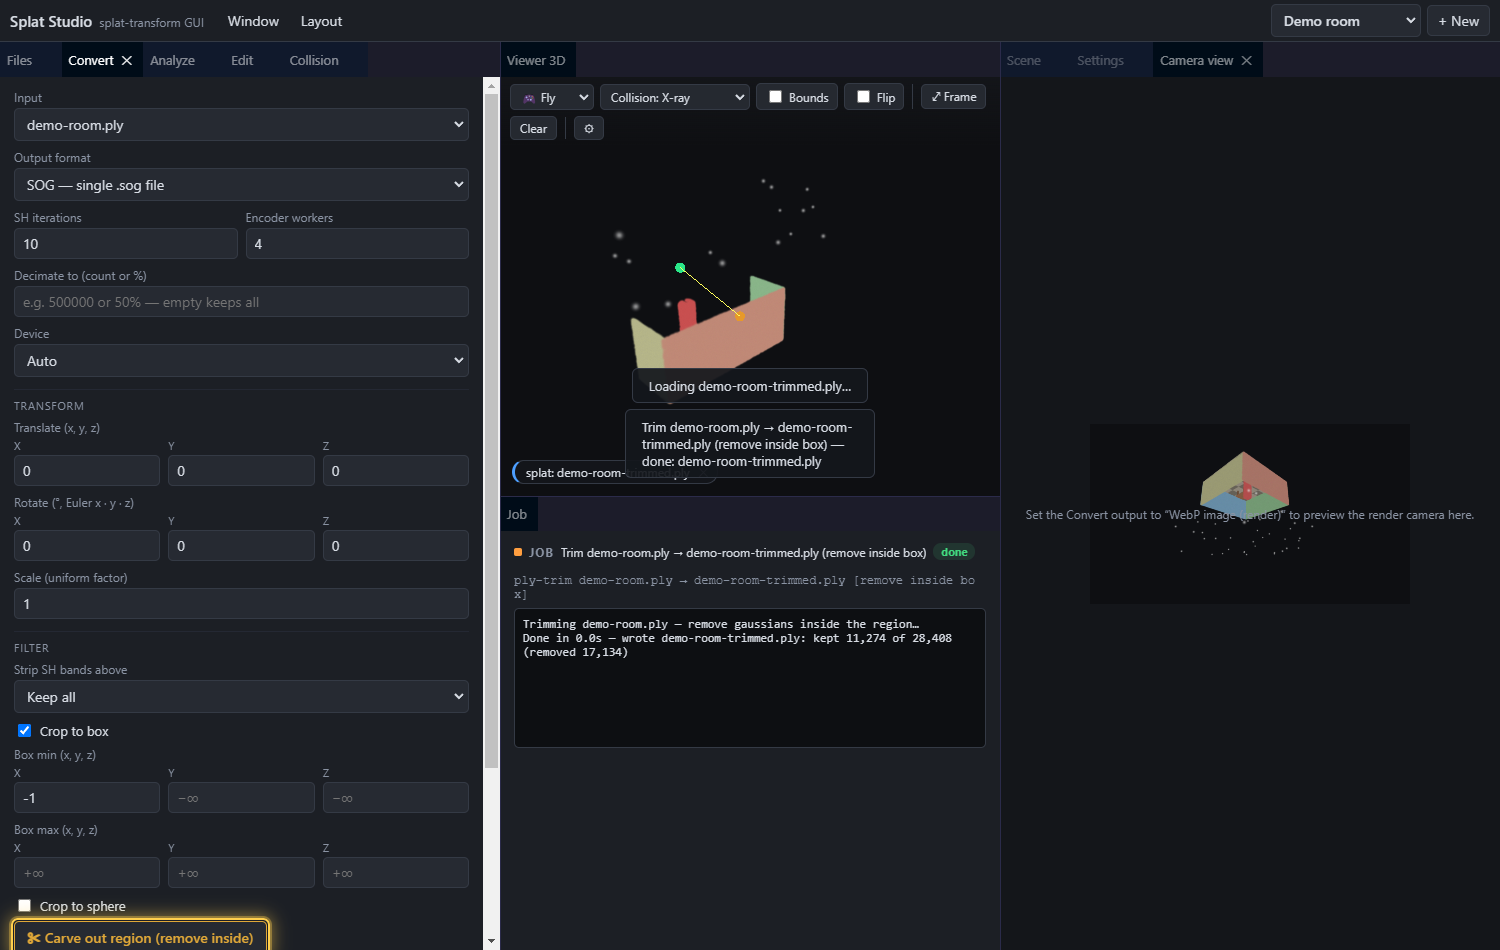
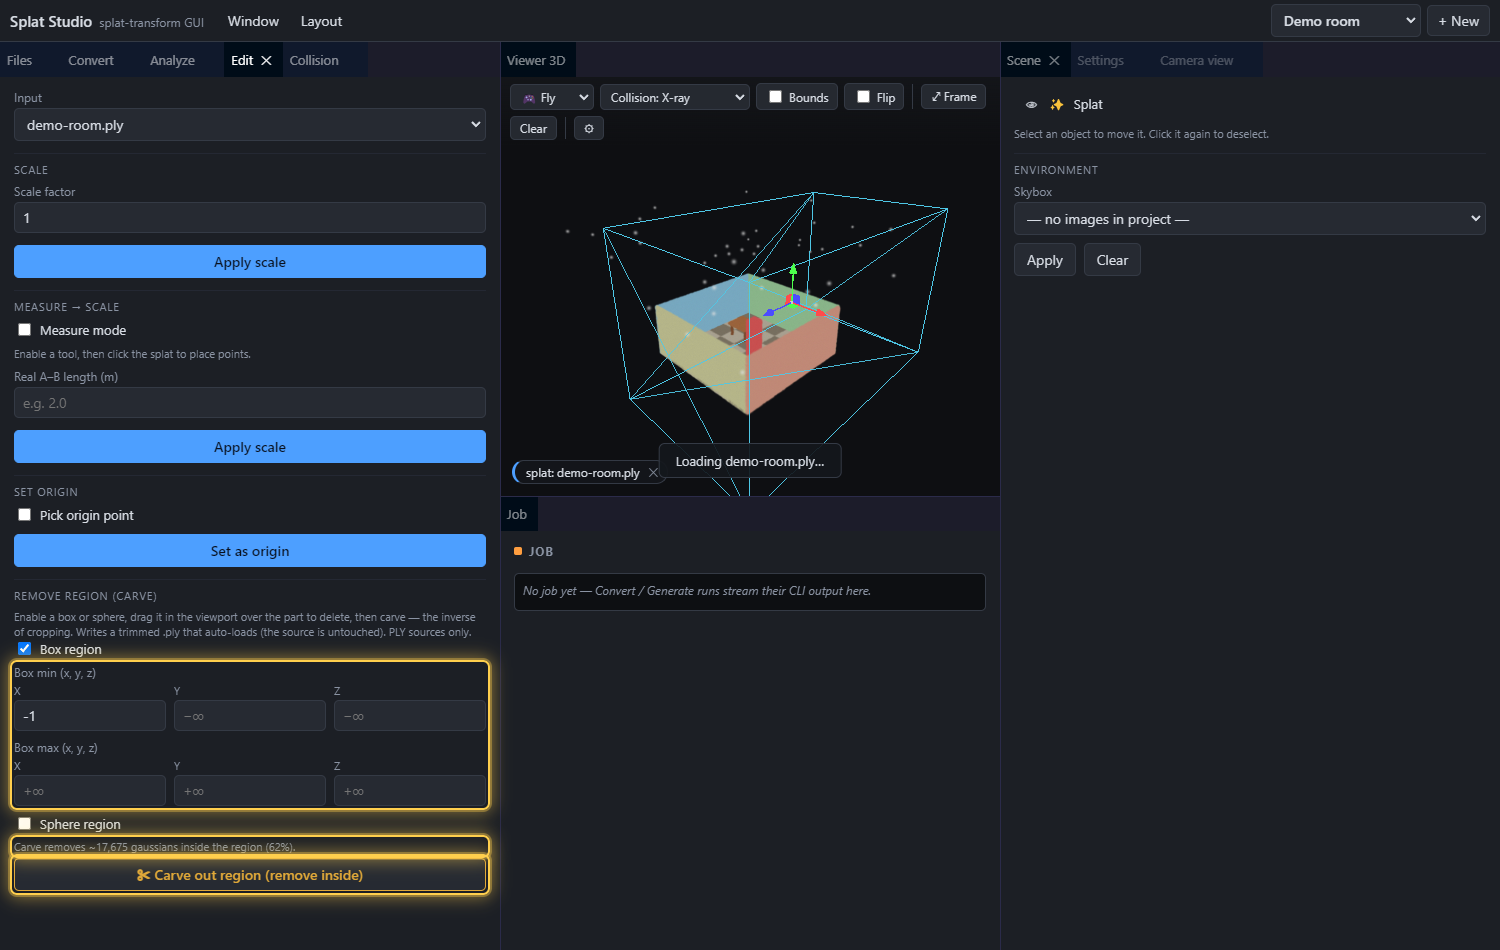
Carve: move to the Edit panel + harden the PLY parser
UI placement (per review feedback): carve belongs with the other destructive
single-file edits, not in Convert.
- The "Remove region (carve)" controls (own box/sphere + live count + button) now
  live in the Edit panel and operate on the Edit input. The viewport crop box/sphere
  is shared by the Convert crop filter (keep) and the Edit carve (remove): the active
  panel + its enabled region decides who drives the gizmo and gets its drag written
  back (cropOwner). trimInsideCount drives the live "Carve removes ~N (P%)" readout.
- Carve now respects the single-job jobBusy guard (was missing — could spawn a
  concurrent job).

PLY parser hardening (server/ply-trim.mjs), all from the review:
- bounds-check the binary body before reading (clear "truncated" error, no silent
  misaligned output);
- anchor the vertex-count rewrite to the real declaration line and allow a no-op
  carve (kept == total);
- accept CRLF headers; clear error for >256 MB ASCII; stream the binary output to
  cut peak memory (no Buffer.concat doubling).
- e2e: a truncated-PLY check (errors clearly, no corrupt output).

diff --git a/client/src/main.ts b/client/src/main.ts
@@ -982,56 +982,91 @@ const syncSplatXform = () => {
     );
 };
 
+// ----- Edit-panel "Carve out region" fields (its own box/sphere, separate from the
+// Convert crop filter) -----
+const ecBoxMinX = $<HTMLInputElement>('carve-box-min-x'), ecBoxMinY = $<HTMLInputElement>('carve-box-min-y'), ecBoxMinZ = $<HTMLInputElement>('carve-box-min-z');
+const ecBoxMaxX = $<HTMLInputElement>('carve-box-max-x'), ecBoxMaxY = $<HTMLInputElement>('carve-box-max-y'), ecBoxMaxZ = $<HTMLInputElement>('carve-box-max-z');
+const ecSphX = $<HTMLInputElement>('carve-sphere-x'), ecSphY = $<HTMLInputElement>('carve-sphere-y'), ecSphZ = $<HTMLInputElement>('carve-sphere-z'), ecSphR = $<HTMLInputElement>('carve-sphere-r');
+const cvBoxOn = () => $<HTMLInputElement>('filter-box-on').checked;
+const cvSphOn = () => $<HTMLInputElement>('filter-sphere-on').checked;
+const ecBoxOn = () => $<HTMLInputElement>('carve-box-on').checked;
+const ecSphOn = () => $<HTMLInputElement>('carve-sphere-on').checked;
+const previewingEdit = () => currentSplatName !== null && currentSplatName === editInput.value;
+
+// The viewport crop box/sphere is shared by the Convert crop filter (keep inside)
+// and the Edit carve (remove inside). The active panel + its enabled region decides
+// who drives — and who the gizmo writes back to.
+type CropOwner = 'edit' | 'convert' | 'none';
+const cropOwner = (): CropOwner => {
+    if (editActive() && previewingEdit() && (ecBoxOn() || ecSphOn())) return 'edit';
+    if (previewingInput() && (cvBoxOn() || cvSphOn())) return 'convert';
+    return 'none';
+};
+const ownerBoxFields = (): HTMLInputElement[] => cropOwner() === 'edit'
+    ? [ecBoxMinX, ecBoxMinY, ecBoxMinZ, ecBoxMaxX, ecBoxMaxY, ecBoxMaxZ]
+    : [boxMinX, boxMinY, boxMinZ, boxMaxX, boxMaxY, boxMaxZ];
+const ownerSphFields = (): HTMLInputElement[] => cropOwner() === 'edit' ? [ecSphX, ecSphY, ecSphZ, ecSphR] : [sphX, sphY, sphZ, sphR];
+
 const syncCropViz = () => {
     if (!viewer) return;
-    const on = previewingInput();
-    viewer.setCropBox(
-        [numOrNull(boxMinX), numOrNull(boxMinY), numOrNull(boxMinZ)],
-        [numOrNull(boxMaxX), numOrNull(boxMaxY), numOrNull(boxMaxZ)],
-        on && $<HTMLInputElement>('filter-box-on').checked
-    );
-    viewer.setCropSphere(
-        [Number(sphX.value), Number(sphY.value), Number(sphZ.value)],
-        Number(sphR.value),
-        on && $<HTMLInputElement>('filter-sphere-on').checked
-    );
+    const owner = cropOwner();
+    if (owner === 'edit') {
+        viewer.setCropBox([numOrNull(ecBoxMinX), numOrNull(ecBoxMinY), numOrNull(ecBoxMinZ)], [numOrNull(ecBoxMaxX), numOrNull(ecBoxMaxY), numOrNull(ecBoxMaxZ)], ecBoxOn());
+        viewer.setCropSphere([Number(ecSphX.value), Number(ecSphY.value), Number(ecSphZ.value)], Number(ecSphR.value), ecSphOn());
+    } else if (owner === 'convert') {
+        viewer.setCropBox([numOrNull(boxMinX), numOrNull(boxMinY), numOrNull(boxMinZ)], [numOrNull(boxMaxX), numOrNull(boxMaxY), numOrNull(boxMaxZ)], cvBoxOn());
+        viewer.setCropSphere([Number(sphX.value), Number(sphY.value), Number(sphZ.value)], Number(sphR.value), cvSphOn());
+    } else {
+        viewer.setCropBox([null, null, null], [null, null, null], false);
+        viewer.setCropSphere([0, 0, 0], 0, false);
+    }
+    updateCarveCountDebounced();
 };
 
 const syncPreview = () => { syncSplatXform(); syncCropViz(); };
 
 for (const el of [tfX, tfY, tfZ, rfX, rfY, rfZ, tfScaleEl]) el.addEventListener('input', syncSplatXform);
-for (const el of [boxMinX, boxMinY, boxMinZ, boxMaxX, boxMaxY, boxMaxZ, sphX, sphY, sphZ, sphR]) el.addEventListener('input', syncCropViz);
-for (const id of ['filter-box-on', 'filter-sphere-on']) $(id).addEventListener('change', syncCropViz);
+for (const el of [boxMinX, boxMinY, boxMinZ, boxMaxX, boxMaxY, boxMaxZ, sphX, sphY, sphZ, sphR,
+    ecBoxMinX, ecBoxMinY, ecBoxMinZ, ecBoxMaxX, ecBoxMaxY, ecBoxMaxZ, ecSphX, ecSphY, ecSphZ, ecSphR]) el.addEventListener('input', syncCropViz);
+for (const id of ['filter-box-on', 'filter-sphere-on', 'carve-box-on', 'carve-sphere-on']) $(id).addEventListener('change', syncCropViz);
 convertInput.addEventListener('change', syncPreview);
 convertFormat.addEventListener('change', syncPreview);
+editInput.addEventListener('change', syncCropViz);
+// reveal each carve region's fields only when its checkbox is on
+for (const [cb, rows] of [['carve-box-on', 'carve-box-rows'], ['carve-sphere-on', 'carve-sphere-rows']] as const) {
+    $(cb).addEventListener('change', () => $(rows).classList.toggle('hidden', !$<HTMLInputElement>(cb).checked));
+}
 
-// ----- carve out a region (remove the gaussians inside) → a trimmed .ply -----
-// Reuses the crop box/sphere region. The CLI's -B/-S only KEEP inside, so removal
-// runs a local Node trim (server/ply-trim.mjs) instead of a CLI flag.
-const trimRemoveBtn = $<HTMLButtonElement>('trim-remove');
-const syncTrimBtn = (): void => {
-    const hasRegion = $<HTMLInputElement>('filter-box-on').checked || $<HTMLInputElement>('filter-sphere-on').checked;
-    trimRemoveBtn.disabled = !hasRegion;
-    trimRemoveBtn.title = hasRegion
-        ? 'Delete the gaussians inside the enabled box / sphere and write a trimmed .ply that loads into the viewport'
-        : 'Enable "Crop to box" or "Crop to sphere" above to define the region to remove';
+// ----- carve out a region (Edit panel) → a trimmed .ply -----
+// The CLI's -B/-S only KEEP inside, so removal runs a local Node trim (server/ply-trim.mjs).
+const carveRemoveBtn = $<HTMLButtonElement>('carve-remove');
+const carveCount = $<HTMLDivElement>('carve-count');
+const carveRegion = (): { box?: string[]; sphere?: [number, number, number, number] } | null => {
+    const box = ecBoxOn() ? [ecBoxMinX.value, ecBoxMinY.value, ecBoxMinZ.value, ecBoxMaxX.value, ecBoxMaxY.value, ecBoxMaxZ.value] : undefined;
+    const sphere = ecSphOn() ? [Number(ecSphX.value), Number(ecSphY.value), Number(ecSphZ.value), Number(ecSphR.value)] as [number, number, number, number] : undefined;
+    return box || sphere ? { box, sphere } : null;
 };
-for (const id of ['filter-box-on', 'filter-sphere-on']) $(id).addEventListener('change', syncTrimBtn);
-syncTrimBtn();
-trimRemoveBtn.onclick = () => {
-    const input = convertInput.value;
-    if (!input) return showToast('Pick a Convert input first', true);
+const syncCarveBtn = (): void => { carveRemoveBtn.disabled = !carveRegion(); };
+function updateCarveCount(): void {
+    if (!viewer || cropOwner() !== 'edit') { carveCount.classList.add('hidden'); return; }
+    const n = viewer.trimInsideCount();
+    const total = viewer.splatGaussianCount;
+    carveCount.textContent = `Carve removes ~${n.toLocaleString()} gaussians inside the region${total ? ` (${Math.round(100 * n / total)}%)` : ''}.`;
+    carveCount.classList.remove('hidden');
+}
+let carveCountTimer = 0;
+function updateCarveCountDebounced(): void { clearTimeout(carveCountTimer); carveCountTimer = window.setTimeout(updateCarveCount, 150); }
+for (const id of ['carve-box-on', 'carve-sphere-on']) $(id).addEventListener('change', syncCarveBtn);
+syncCarveBtn();
+carveRemoveBtn.onclick = () => {
+    const input = editInput.value;
+    if (!input) return showToast('Pick a splat to edit first', true);
     if (!/\.ply$/i.test(input)) return showToast('Carve works on .ply sources — convert to PLY first', true);
-    const box = $<HTMLInputElement>('filter-box-on').checked
-        ? [boxMinX.value, boxMinY.value, boxMinZ.value, boxMaxX.value, boxMaxY.value, boxMaxZ.value]
-        : undefined;
-    const sphere = $<HTMLInputElement>('filter-sphere-on').checked
-        ? [Number(sphX.value), Number(sphY.value), Number(sphZ.value), Number(sphR.value)] as [number, number, number, number]
-        : undefined;
-    if (!box && !sphere) return showToast('Enable a Crop box or sphere to define the region to remove', true);
-    if (!panelValid('panel-convert')) return;
+    const region = carveRegion();
+    if (!region) return showToast('Enable a Box or Sphere region to carve out', true);
+    if (jobBusy) return showToast('A job is running — wait for it to finish', true);
     if (!confirm(`Remove the gaussians inside the region from ${input}? This writes a new trimmed .ply — the source is left untouched.`)) return;
-    void runJob(() => api.startTrim({ input, options: { mode: 'remove', box, sphere } }), trimRemoveBtn);
+    void runJob(() => api.startTrim({ input, options: { mode: 'remove', ...region } }), carveRemoveBtn);
 };
 
 // ---------- collision region box (viewport <-> Collision-panel fields) ----------
@@ -1564,6 +1599,11 @@ function collisionActive(): boolean {
     const p = dock.getPanel('panel-collision');
     return !!p && p.group.activePanel?.id === 'panel-collision';
 }
+// the Edit panel is the shown tab in its group (gates the carve region viz)
+function editActive(): boolean {
+    const p = dock.getPanel('panel-edit');
+    return !!p && p.group.activePanel?.id === 'panel-edit';
+}
 
 const SCENE_ITEMS: { id: SelId; label: string; icon: string; gizmo: boolean; has: () => boolean }[] = [
     { id: 'splat', label: 'Splat', icon: '✨', gizmo: false, has: () => !!viewer?.hasSplat },
@@ -1903,16 +1943,18 @@ void SplatViewer.create($<HTMLCanvasElement>('gs-canvas'))
             syncSeedViz(); // snap the node to the rounded field values
         };
         syncSeedViz();
-        // crop gizmo -> reflect into the box/sphere fields (live), persist on release
-        v.onCropSphereMove = (c) => { sphX.value = String(c.x); sphY.value = String(c.y); sphZ.value = String(c.z); };
+        // crop gizmo -> reflect into the OWNING panel's box/sphere fields (Convert crop
+        // or Edit carve), live; persist on release
+        v.onCropSphereMove = (c) => { const [x, y, z] = ownerSphFields(); x.value = String(c.x); y.value = String(c.y); z.value = String(c.z); };
         v.onCropBoxMove = (d) => {
             const shift = (el: HTMLInputElement, dv: number) => { if (el.value.trim() !== '') el.value = String(Math.round((Number(el.value) + dv) * 100) / 100); };
-            shift(boxMinX, d.x); shift(boxMaxX, d.x);
-            shift(boxMinY, d.y); shift(boxMaxY, d.y);
-            shift(boxMinZ, d.z); shift(boxMaxZ, d.z);
+            const [minX, minY, minZ, maxX, maxY, maxZ] = ownerBoxFields();
+            shift(minX, d.x); shift(maxX, d.x);
+            shift(minY, d.y); shift(maxY, d.y);
+            shift(minZ, d.z); shift(maxZ, d.z);
         };
         v.onCropMoveEnd = () => {
-            for (const el of [boxMinX, boxMinY, boxMinZ, boxMaxX, boxMaxY, boxMaxZ, sphX, sphY, sphZ, sphR]) el.dispatchEvent(new Event('change', { bubbles: true }));
+            for (const el of [...ownerBoxFields(), ...ownerSphFields()]) el.dispatchEvent(new Event('change', { bubbles: true }));
             syncCropViz();
         };
         // region box gizmo -> reflect absolute corners into the fields (live), persist on release

diff --git a/client/index.html b/client/index.html
@@ -232,9 +232,6 @@
                             <label class="axis"><span>r</span><input type="number" id="sphere-r" value="1" step="0.1" min="0" required title="Sphere radius" /></label>
                         </div>
                     </div>
-                    <div class="field-row" id="row-trim">
-                        <button id="trim-remove" title="Delete the gaussians inside the enabled Crop box / sphere and write a new trimmed .ply that loads into the viewport. The inverse of cropping — the CLI's -B/-S can only KEEP inside, so this runs a local trim to remove. PLY sources only.">✂ Carve out region (remove inside)</button>
-                    </div>
                     <label class="check" title="Keep only gaussians where a chosen property compares to a value (-V/--filter-value). e.g. opacity > 0.1 drops faint splats."><input type="checkbox" id="filter-value-on" /> Filter by value</label>
                     <div class="field hidden" id="filter-value-rows" title="opacity / scale_* / f_dc_* use transformed values (opacity &amp; colour 0–1, linear scale). The _raw variants compare the stored PLY values instead.">
                         <label class="field" title="Property to test"><span>Property</span>
@@ -340,6 +337,36 @@
                 <div class="group">Set origin</div>
                 <label class="check" title="Click the splat at the point that should become the origin (0,0,0). The point snaps to the surface"><input type="checkbox" id="origin-toggle" /> Pick origin point</label>
                 <button id="apply-origin" class="primary" title="Recenter the splat so the marker sits at the origin (-t/--translate), writing a new splat that auto-loads">Set as origin</button>
+
+                <div class="group">Remove region (carve)</div>
+                <span class="hint">Enable a box or sphere, drag it in the viewport over the part to delete, then carve — the inverse of cropping. Writes a trimmed .ply that auto-loads (the source is untouched). PLY sources only.</span>
+                <label class="check" title="Carve out the gaussians inside an axis-aligned box. Drag the box in the viewport; leave a min/max field blank for no limit on that side."><input type="checkbox" id="carve-box-on" /> Box region</label>
+                <div class="field hidden" id="carve-box-rows" title="Box corners in splat-transform world units (same axes as the collision seed). Blank = unbounded on that side.">
+                    <div class="label-row"><span>Box min <em>(x, y, z)</em></span></div>
+                    <div class="field-row">
+                        <label class="axis"><span>x</span><input type="number" id="carve-box-min-x" step="0.1" placeholder="−∞" title="Box min X (blank = unbounded)" /></label>
+                        <label class="axis"><span>y</span><input type="number" id="carve-box-min-y" step="0.1" placeholder="−∞" title="Box min Y (blank = unbounded)" /></label>
+                        <label class="axis"><span>z</span><input type="number" id="carve-box-min-z" step="0.1" placeholder="−∞" title="Box min Z (blank = unbounded)" /></label>
+                    </div>
+                    <div class="label-row"><span>Box max <em>(x, y, z)</em></span></div>
+                    <div class="field-row">
+                        <label class="axis"><span>x</span><input type="number" id="carve-box-max-x" step="0.1" placeholder="+∞" title="Box max X (blank = unbounded)" /></label>
+                        <label class="axis"><span>y</span><input type="number" id="carve-box-max-y" step="0.1" placeholder="+∞" title="Box max Y (blank = unbounded)" /></label>
+                        <label class="axis"><span>z</span><input type="number" id="carve-box-max-z" step="0.1" placeholder="+∞" title="Box max Z (blank = unbounded)" /></label>
+                    </div>
+                </div>
+                <label class="check" title="Carve out the gaussians inside a sphere."><input type="checkbox" id="carve-sphere-on" /> Sphere region</label>
+                <div class="field hidden" id="carve-sphere-rows" title="Sphere centre + radius in splat-transform world units (same axes as the collision seed).">
+                    <div class="label-row"><span>Sphere centre <em>(x, y, z)</em> + radius</span></div>
+                    <div class="field-row">
+                        <label class="axis"><span>x</span><input type="number" id="carve-sphere-x" value="0" step="0.1" title="Sphere centre X" /></label>
+                        <label class="axis"><span>y</span><input type="number" id="carve-sphere-y" value="0" step="0.1" title="Sphere centre Y" /></label>
+                        <label class="axis"><span>z</span><input type="number" id="carve-sphere-z" value="0" step="0.1" title="Sphere centre Z" /></label>
+                        <label class="axis"><span>r</span><input type="number" id="carve-sphere-r" value="1" step="0.1" min="0" title="Sphere radius" /></label>
+                    </div>
+                </div>
+                <div class="hint hidden" id="carve-count" title="How many gaussians the carve would remove, counted live in the viewport"></div>
+                <button id="carve-remove" title="Delete the gaussians inside the enabled box / sphere and write a trimmed .ply that loads into the viewport. The inverse of cropping — the CLI's -B/-S can only KEEP inside, so this runs a local trim to remove. PLY sources only.">✂ Carve out region (remove inside)</button>
             </section>
 
             <section class="panel" id="panel-collision">

diff --git a/client/src/viewer.ts b/client/src/viewer.ts
@@ -1322,6 +1322,36 @@ export class SplatViewer {
         return cnt;
     }
 
+    /** Count splat centres inside the active crop box/sphere — what "Carve out" would remove (0 if none shown). */
+    trimInsideCount(): number {
+        const centers = this.pickCenters, e = this.splatEntity;
+        const boxOn = this.cropBoxNode.enabled, sphOn = this.cropSphereNode.enabled;
+        if (!centers || !e || (!boxOn && !sphOn)) return 0;
+        const d = this.cropHolder.getWorldTransform().clone().invert().mul(e.getWorldTransform()).data;
+        let bminx = 0, bmaxx = 0, bminy = 0, bmaxy = 0, bminz = 0, bmaxz = 0;
+        if (boxOn) {
+            const c = this.cropBoxNode.getLocalPosition(), s = this.cropBoxNode.getLocalScale();
+            bminx = c.x - s.x / 2; bmaxx = c.x + s.x / 2; bminy = c.y - s.y / 2; bmaxy = c.y + s.y / 2; bminz = c.z - s.z / 2; bmaxz = c.z + s.z / 2;
+        }
+        let scx = 0, scy = 0, scz = 0, sr2 = 0;
+        if (sphOn) {
+            const c = this.cropSphereNode.getLocalPosition(), s = this.cropSphereNode.getLocalScale();
+            scx = c.x; scy = c.y; scz = c.z; sr2 = s.x * s.x; // unit sphere scaled uniformly to r
+        }
+        const n = centers.length / 3;
+        let cnt = 0;
+        for (let i = 0; i < n; i++) {
+            const j = i * 3, X = centers[j], Y = centers[j + 1], Z = centers[j + 2];
+            const px = d[0] * X + d[4] * Y + d[8] * Z + d[12];
+            const py = d[1] * X + d[5] * Y + d[9] * Z + d[13];
+            const pz = d[2] * X + d[6] * Y + d[10] * Z + d[14];
+            const inBox = boxOn && px >= bminx && px <= bmaxx && py >= bminy && py <= bmaxy && pz >= bminz && pz <= bmaxz;
+            const inSph = sphOn && ((px - scx) ** 2 + (py - scy) ** 2 + (pz - scz) ** 2) <= sr2;
+            if (inBox || inSph) cnt++;
+        }
+        return cnt;
+    }
+
     /** Splat AABB as [min,max] corners in CLI coords, for seeding a default region (or null). */
     regionDefaultBounds(): { min: [number, number, number]; max: [number, number, number] } | null {
         const b = this.splatOutputBounds();

diff --git a/client/src/style.css b/client/src/style.css
@@ -612,9 +612,10 @@ body.dropping #viewport::after {
 #lod-autotune-plan { margin-top: 2px; }
 
 /* ----- carve out / trim (removes data → amber accent) ----- */
-#trim-remove { border-color: #e0a838; color: #e0a838; font-weight: 600; }
-#trim-remove:hover:not(:disabled) { background: #e0a838; color: #1a1205; }
-#trim-remove:disabled { opacity: 0.5; cursor: not-allowed; }
+#carve-remove { width: 100%; margin-top: 4px; border-color: #e0a838; color: #e0a838; font-weight: 600; }
+#carve-remove:hover:not(:disabled) { background: #e0a838; color: #1a1205; }
+#carve-remove:disabled { opacity: 0.5; cursor: not-allowed; }
+#carve-count { margin-top: 2px; }
 
 /* ----- analyze stats card ----- */
 .analyze-result { margin-top: 10px; border-top: 1px solid var(--border); padding-top: 8px; }

diff --git a/docs/USER_GUIDE.md b/docs/USER_GUIDE.md
@@ -164,14 +164,8 @@ pipeline to the splat before it's written (they don't apply to streamed-LOD bake
 - **Strip SH bands above** — drop spherical-harmonic bands to shrink the file
   (`-H`, e.g. keep only band 0 for flat color).
 - **Crop to box / sphere** — keep only gaussians inside a region (`-B` / `-S`); the
-  region draws as a draggable wireframe in the viewport.
-- **✂ Carve out region (remove inside)** — the inverse of cropping: **delete** the
-  gaussians inside the enabled crop box/sphere and write a new trimmed `.ply` that
-  loads into the viewport (the source is left untouched). `-B`/`-S` can only *keep*
-  inside, so removal runs a local trim instead of a CLI flag. PLY sources only.
-
-  ![Carve out a region](screenshots/trim-carve.png)
-
+  region draws as a draggable wireframe in the viewport. (To *remove* a region instead,
+  see **Carve** in the [Edit panel](#edit-measure-to-scale--set-origin).)
 - **Filter by value** — keep/drop by a column comparison (`-V`).
 - **Remove floaters** — strip disconnected specks (`-G`).
 - **Reorder (Morton / Z-order)** — spatially sort for better compression (`-M`).
@@ -242,6 +236,15 @@ measuring required.
 
 **Set origin:** check **Pick origin point**, click the splat where `(0,0,0)` should
 be, then **Set as origin** to recenter the splat (`-t`).
+
+**✂ Carve out region (remove inside):** delete the gaussians inside a box or sphere —
+the inverse of cropping. Enable **Box region** and/or **Sphere region**, drag the
+wireframe in the viewport over the part to remove (a live readout shows how many
+gaussians the carve will delete), then **Carve out region**. It writes a new trimmed
+`.ply` that loads into the viewport; the source is untouched. `splat-transform`'s
+`-B`/`-S` can only *keep* inside, so this runs a local trim. PLY sources only.
+
+![Carve out a region](screenshots/trim-carve.png)
 
 ---
 